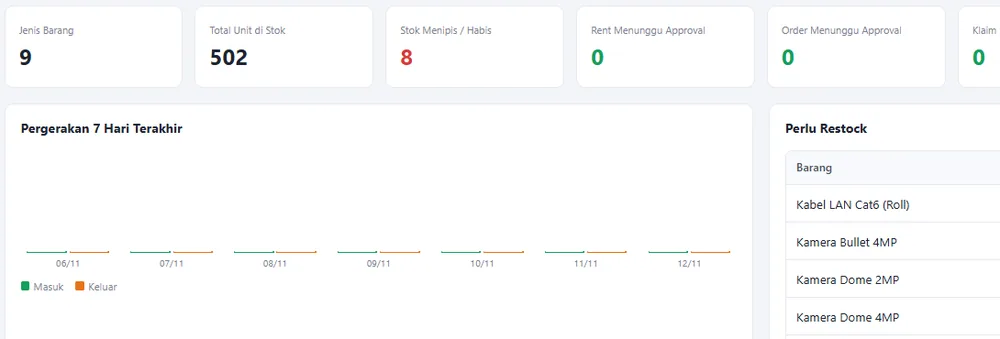
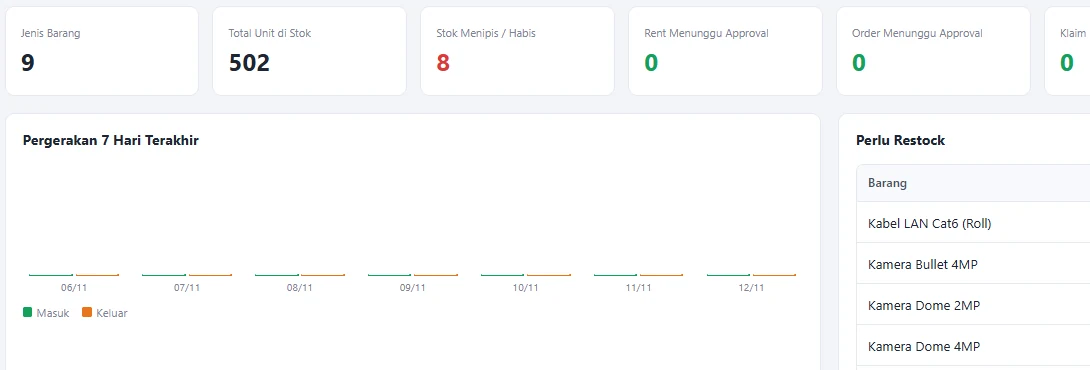
Galeri "Tampilan Aplikasi": tambah tab Lapak Gudang
Section ini sebelumnya hanya menampilkan Lapak Absen. Sekarang ada tab
Lapak Absen / Lapak Gudang. Panel Gudang berisi screenshot halaman masuk
(akun demo) dan dashboard stok, plus tombol Coba dan Tanya Harga.
Tanpa JS kedua panel tampil berurutan. Dashboard di-crop agar nama
pengguna tidak tampil.

Claude-Session: https://claude.ai/code/session_012fTqd63gJjCieaaFrcvncr

diff --git a/index.html b/index.html
@@ -163,7 +163,7 @@
               </div>
               <div class="win win--b">
                 <div class="win__bar"><i></i><i></i><i></i><span>Dashboard</span></div>
-                <img src="assets/screenshots/gudang-dashboard.webp" alt="" width="1000" height="339" loading="lazy" decoding="async">
+                <img src="assets/screenshots/gudang-dashboard.webp" alt="" width="1090" height="370" loading="lazy" decoding="async">
               </div>
               <span class="chip chip--tr"><svg class="ic"><use href="#i-gudang"/></svg>Manajemen Stok</span>
               <span class="chip chip--bl"><svg class="ic"><use href="#i-growth"/></svg>Laporan Real-time</span>
@@ -350,9 +350,16 @@
       <div class="shots" id="tampilan">
         <div class="section__head section__head--sub reveal">
           <span class="eyebrow">Tampilan Aplikasi</span>
-          <h2>Intip tampilan <span>Lapak Absen</span></h2>
-          <p>Contoh tampilan asli dari akun demo: dashboard admin di komputer, dan aplikasi karyawan di HP.</p>
+          <h2>Intip tampilan <span>aplikasi kami</span></h2>
+          <p>Contoh tampilan asli dari akun demo Lapak Absen dan Lapak Gudang.</p>
         </div>
+
+        <div class="shots__tabs" role="tablist" aria-label="Pilih aplikasi">
+          <button type="button" class="stab is-active" role="tab" id="tab-absen" aria-selected="true" aria-controls="shots-absen"><img src="assets/lapak-absen.png" alt="" width="26" height="26">Lapak Absen</button>
+          <button type="button" class="stab" role="tab" id="tab-gudang" aria-selected="false" aria-controls="shots-gudang" tabindex="-1"><img src="assets/lapak-gudang.png" alt="" width="26" height="26">Lapak Gudang</button>
+        </div>
+
+        <div class="shotpanel is-active" id="shots-absen" role="tabpanel" aria-labelledby="tab-absen">
         <figure class="shot shot--desk reveal">
           <div class="frame">
             <div class="browser" aria-hidden="true"><i></i><i></i><i></i></div>
@@ -373,6 +380,31 @@
             <div class="phoneframe"><img src="assets/screenshots/app-shift.webp" alt="Jadwal shift 7 hari di aplikasi Lapak Absen" width="480" height="982" loading="lazy"></div>
             <figcaption>Jadwal shift 7 hari</figcaption>
           </figure>
+        </div>
+        <div class="shotpanel__cta reveal">
+          <a href="#" class="btn" data-link="absen-web" target="_blank" rel="noopener"><svg class="ic"><use href="#i-globe"/></svg>Coba Lapak Absen</a>
+        </div>
+        </div>
+
+        <div class="shotpanel" id="shots-gudang" role="tabpanel" aria-labelledby="tab-gudang">
+          <figure class="shot shot--desk reveal">
+            <div class="frame">
+              <div class="browser" aria-hidden="true"><i></i><i></i><i></i></div>
+              <img src="assets/screenshots/gudang-login.webp" alt="Halaman masuk Lapak Gudang dengan pilihan akun demo Admin, Staf Gudang, dan Sales" width="1200" height="540" loading="lazy">
+            </div>
+            <figcaption>Halaman masuk, lengkap dengan akun demo</figcaption>
+          </figure>
+          <figure class="shot shot--desk shot--next reveal">
+            <div class="frame">
+              <div class="browser" aria-hidden="true"><i></i><i></i><i></i></div>
+              <img src="assets/screenshots/gudang-dashboard.webp" alt="Dashboard Lapak Gudang: jumlah jenis barang, total unit di stok, stok menipis, dan daftar perlu restock" width="1090" height="370" loading="lazy">
+            </div>
+            <figcaption>Dashboard stok: ringkasan, pergerakan barang, dan daftar perlu restock</figcaption>
+          </figure>
+          <div class="shotpanel__cta reveal">
+            <a href="#" class="btn" data-link="gudang-web" target="_blank" rel="noopener"><svg class="ic"><use href="#i-globe"/></svg>Coba Lapak Gudang</a>
+            <a href="#" class="btn btn--wa" data-link="whatsapp-gudang" target="_blank" rel="noopener"><svg class="ic"><use href="#i-whatsapp"/></svg>Tanya Harga</a>
+          </div>
         </div>
       </div>
 

diff --git a/css/style.css b/css/style.css
@@ -384,6 +384,20 @@ html:not(.js) .hslide:not(.is-active){display:none}
 .shots__phones{display:grid;grid-template-columns:repeat(3,1fr);gap:28px;max-width:900px;margin:44px auto 0}
 .phoneframe{background:#0F172A;border-radius:34px;padding:9px;box-shadow:0 25px 50px rgba(15,23,42,.25)}
 .phoneframe img{width:100%;height:auto;border-radius:26px}
+.shot--next{margin-top:36px}
+.shots__tabs{display:none;justify-content:center;flex-wrap:wrap;gap:10px;margin:0 0 34px}
+.js .shots__tabs{display:flex}
+.stab{display:inline-flex;align-items:center;gap:9px;padding:7px 20px 7px 8px;border:1.5px solid var(--line);border-radius:999px;background:#fff;color:var(--navy);font:700 15px/1 inherit;font-family:inherit;cursor:pointer;box-shadow:0 4px 12px rgba(15,23,42,.06);transition:background .25s,color .25s,border-color .25s,box-shadow .25s}
+.stab img{width:30px;height:30px;border-radius:50%;background:#fff;object-fit:contain;box-shadow:0 0 0 1px var(--line)}
+.stab:hover{border-color:var(--orange)}
+.stab.is-active{background:linear-gradient(180deg,#FB923C,var(--orange));border-color:transparent;color:#fff;box-shadow:0 8px 18px rgba(249,115,22,.35)}
+.stab:focus-visible{outline:2px solid var(--orange-d);outline-offset:2px}
+.js .shotpanel:not(.is-active){display:none}
+.shotpanel.is-active{animation:panelin .5s ease both}
+@keyframes panelin{from{opacity:0;transform:translateY(14px)}}
+.shotpanel__cta{display:flex;flex-wrap:wrap;justify-content:center;gap:12px;margin-top:34px}
+.shotpanel+.shotpanel{margin-top:0}
+html:not(.js) .shotpanel+.shotpanel{margin-top:60px}
 
 /* ===== Responsive ===== */
 @media(max-width:1100px){.hv{--s:.84}}

diff --git a/js/main.js b/js/main.js
@@ -69,6 +69,34 @@ if ("IntersectionObserver" in window) {
   items.forEach(el => el.classList.add("in"));
 }
 
+// Tab galeri "Tampilan Aplikasi" (Absen / Gudang)
+(() => {
+  const tabs = [...document.querySelectorAll(".stab")];
+  if (!tabs.length) return;
+  const select = (tab, focus) => {
+    tabs.forEach(t => {
+      const on = t === tab;
+      t.classList.toggle("is-active", on);
+      t.setAttribute("aria-selected", on);
+      t.tabIndex = on ? 0 : -1;
+      const panel = document.getElementById(t.getAttribute("aria-controls"));
+      panel.classList.toggle("is-active", on);
+      // elemen .reveal di panel yang tadinya tersembunyi tidak pernah terpantau observer, tampilkan langsung
+      if (on) panel.querySelectorAll(".reveal").forEach(el => el.classList.add("in"));
+    });
+    if (focus) tab.focus();
+  };
+  tabs.forEach((t, i) => {
+    t.addEventListener("click", () => select(t));
+    t.addEventListener("keydown", e => {
+      if (e.key === "ArrowRight" || e.key === "ArrowLeft") {
+        e.preventDefault();
+        select(tabs[(i + (e.key === "ArrowRight" ? 1 : -1) + tabs.length) % tabs.length], true);
+      }
+    });
+  });
+})();
+
 // Hero slider: ganti slide otomatis (Platform, Absen, Gudang, Kosan). Waktu tiap slide diatur oleh animasi
 // bar progres di tab (CSS), jadi pause/resume otomatis sinkron. Berhenti saat di-hover, difokus, disentuh,
 // tab tidak aktif, atau hero di luar layar. Bisa di-swipe, panah, dan tab. Tidak otomatis kalau reduced-motion.
